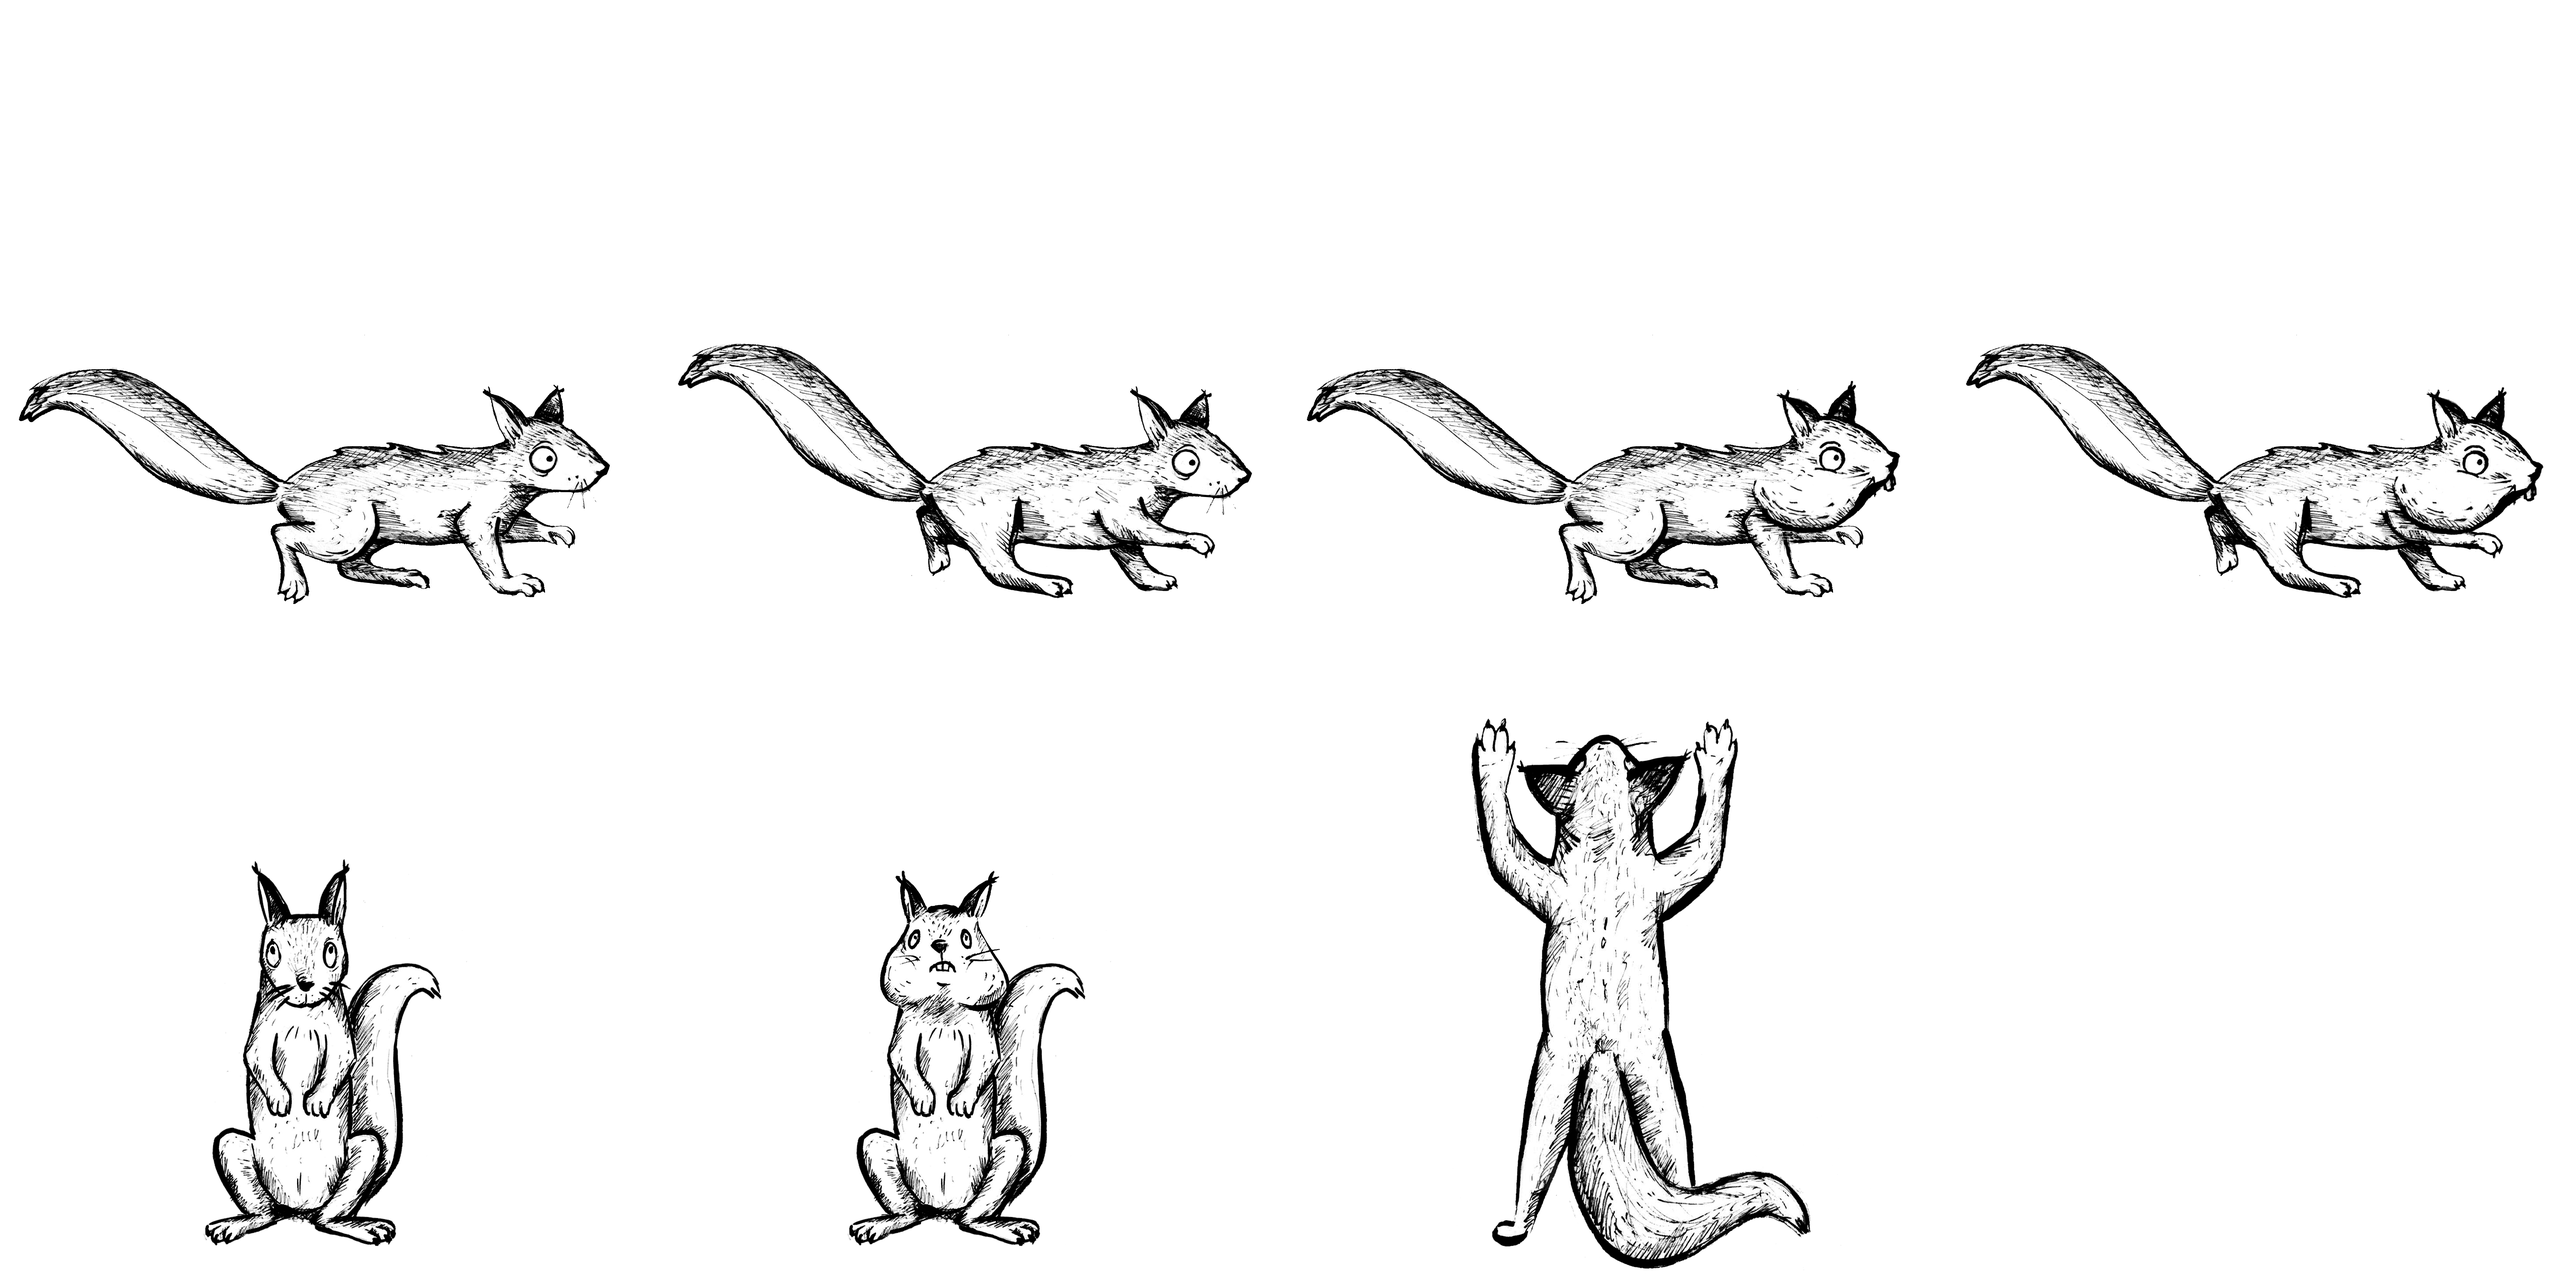
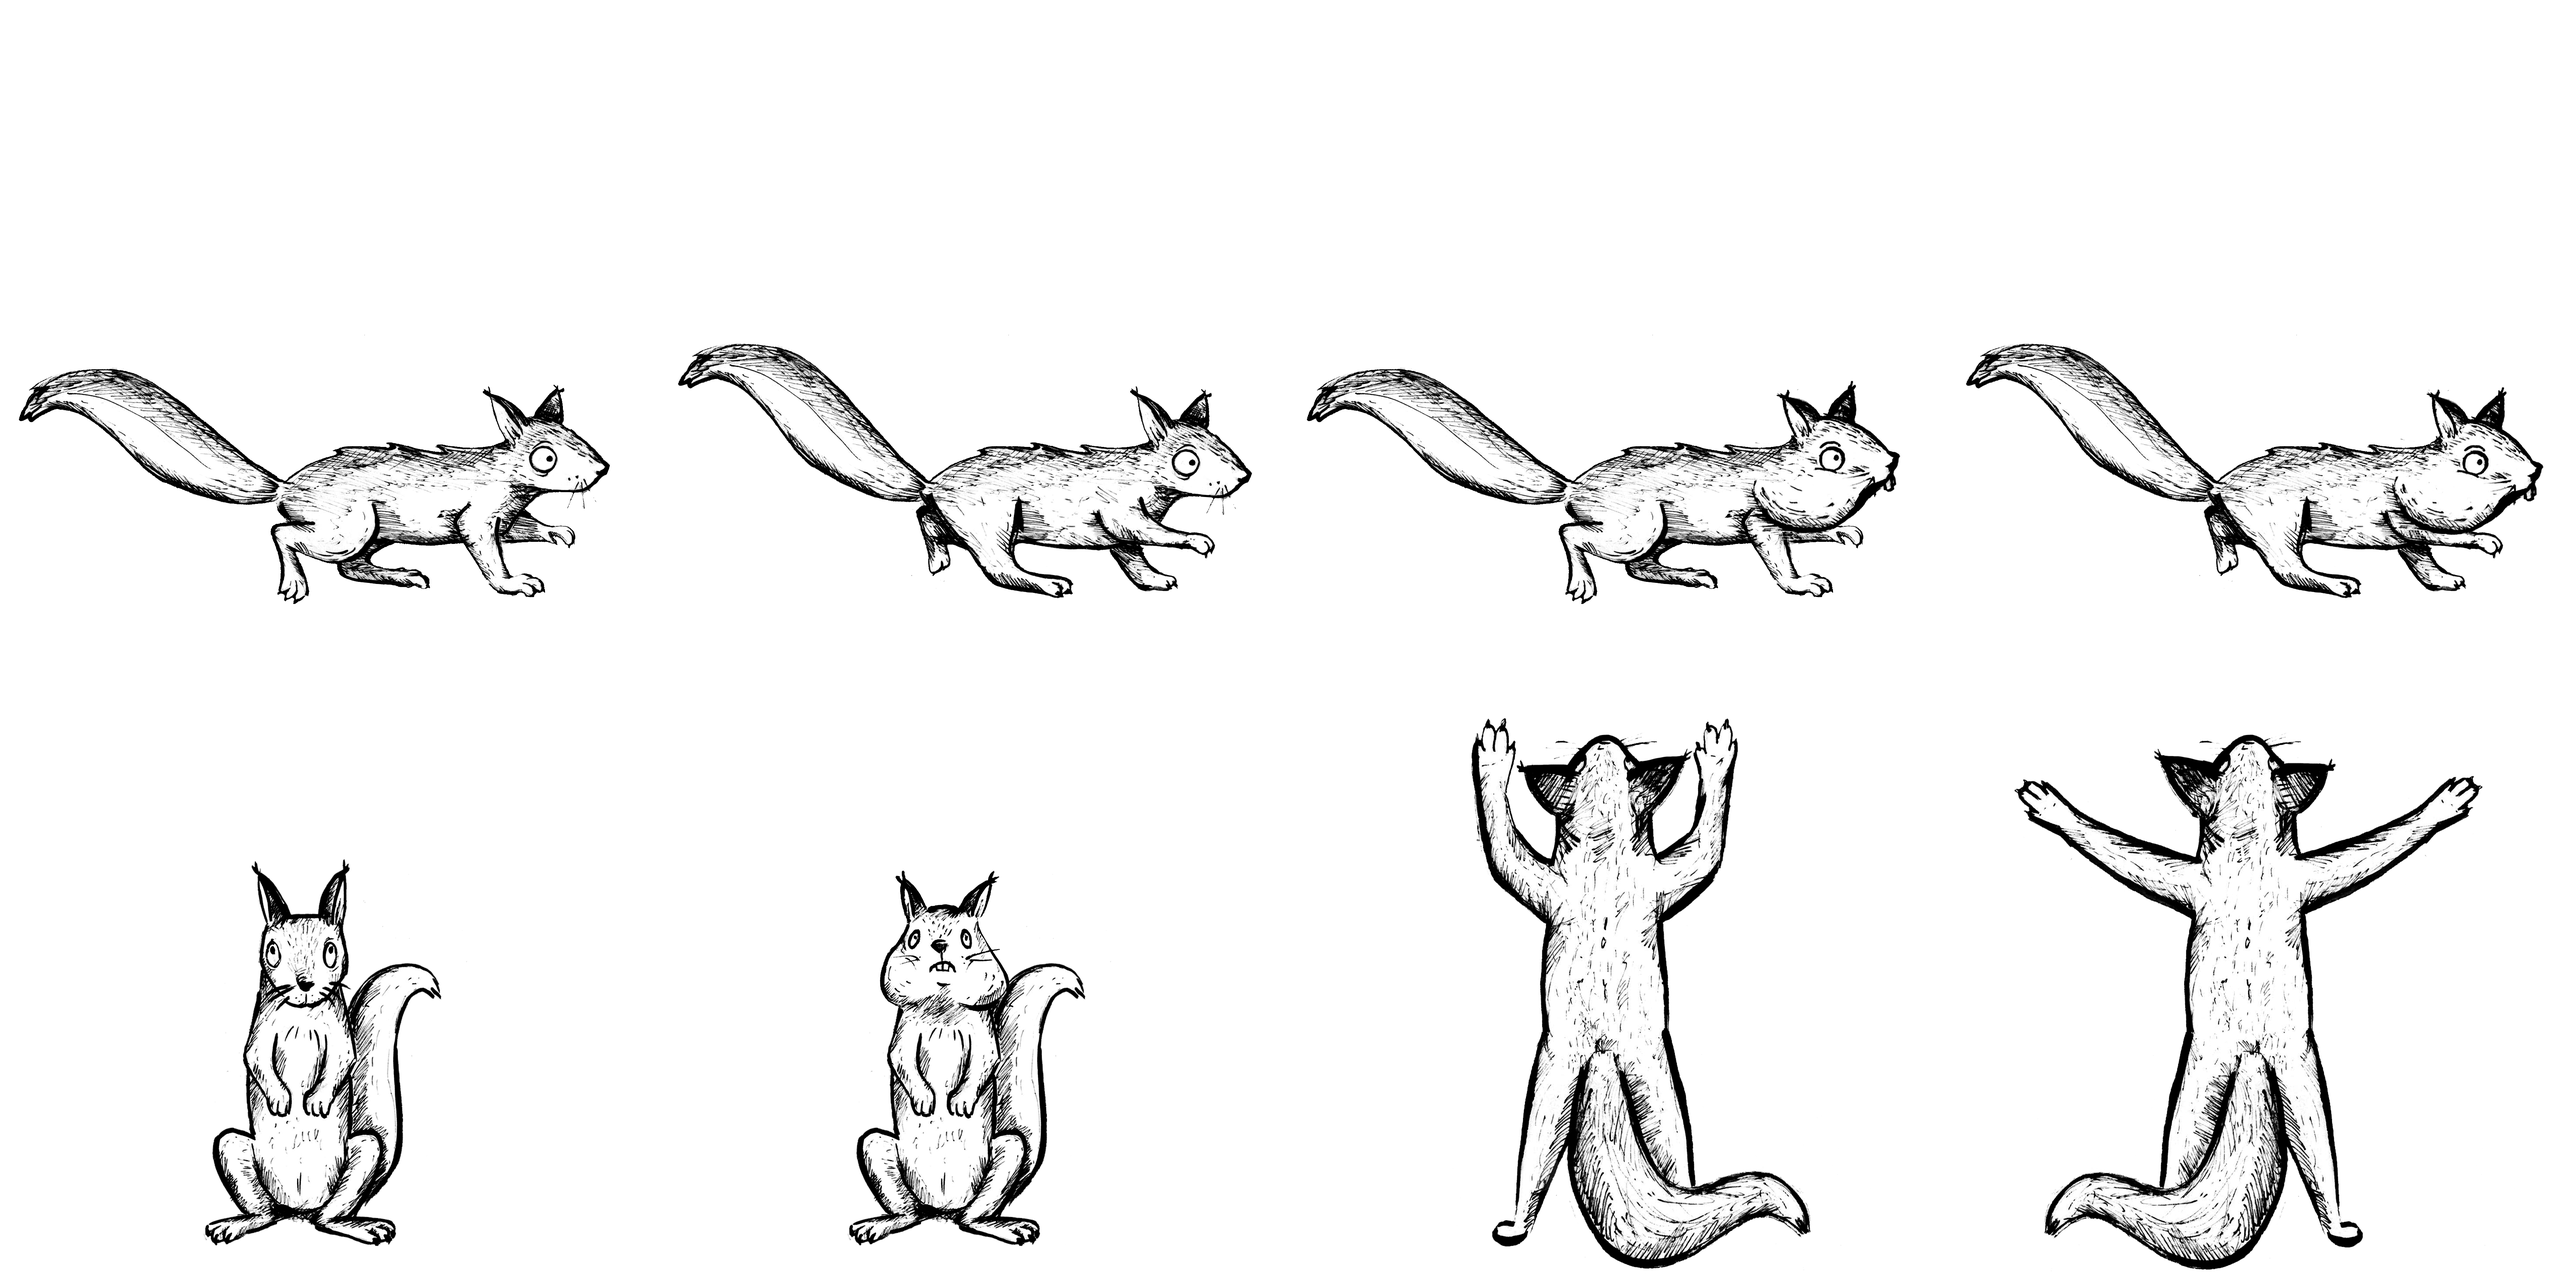
Add action animation

Changed region(s): [[0.7804, 0.5595, 0.9677, 0.9946]]

diff --git a/src/game/state/Preload.ts b/src/game/state/Preload.ts
@@ -52,14 +52,6 @@ export default class Preload extends Phaser.State {
         this.load.spritesheet('hole3', 'assets/holes/hole3.png', 519, 694);
         this.load.spritesheet('hole4', 'assets/holes/hole4.png', 519, 694);
 
-        this.load.spritesheet('hole_above', 'assets/holes/hole_above.png', 519, 694);
-        this.load.spritesheet('human1', 'assets/hands/human1.png', 423, 598);
-        this.load.spritesheet('human2', 'assets/hands/human2.png', 423, 598);
-        this.load.spritesheet('bear1', 'assets/hands/bear1.png', 423, 598);
-        this.load.spritesheet('bear2', 'assets/hands/bear2.png', 423, 598);
-        this.load.spritesheet('racoon1', 'assets/hands/racoon1.png', 423, 598);
-        this.load.spritesheet('racoon2', 'assets/hands/racoon2.png', 423, 598);
-
         this.load.spritesheet('bear/empty', 'assets/hands/empty_bear.png', 573, 1243);
         this.load.spritesheet('bear/full', 'assets/hands/full_bear.png', 532, 1066);
 
@@ -81,7 +73,7 @@ export default class Preload extends Phaser.State {
         // after 1866x1866 / 7.28 ~= 256x256 | 1866 x 0.14 = 261
         // http://www.imagemagick.org/Usage/montage/ to merge images
         // cd assets/squirrels
-        // montage squirrel1.png squirrel2.png squirrel3.png squirrel4.png squirrel5.png squirrel6.png squirrel7.png -geometry 1866x1866 -background none squirrel.png
+        // montage squirrel1.png squirrel2.png squirrel3.png squirrel4.png squirrel5.png squirrel6.png squirrel7.png squirrel8.png -geometry 1866x1866 -background none squirrel.png
 
         this.load.spritesheet('sky', 'assets/sprites/sky.png', 800, 600);
         this.load.spritesheet('background', 'assets/sprites/background.png', 800, 600);

diff --git a/src/world/Squirrel.ts b/src/world/Squirrel.ts
@@ -43,7 +43,7 @@ export class Squirrel extends Phaser.Sprite
         this.animations.add('elevator', [4], 8, true);
         this.animations.add('elevator-fat', [5], 8, true);
 
-        const actionAnimation = this.animations.add('action', [6], 12, false);
+        const actionAnimation = this.animations.add('action', [6, 7], 12, false);
         actionAnimation.onStart.add(this.action, this);
 
         this.cursors = this.game.input.keyboard.createCursorKeys();

diff --git a/index.html b/index.html
@@ -2,7 +2,7 @@
 <html lang="en">
 <head>
     <meta charset="UTF-8">
-    <title>Winter is Coming</title>
+    <title>Going Nutz</title>
 </head>
 <body>
 <div class="app">
